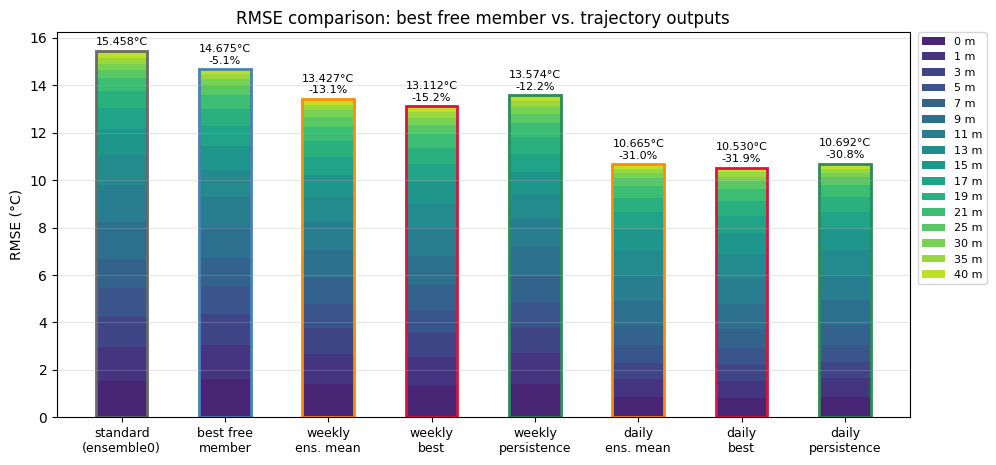
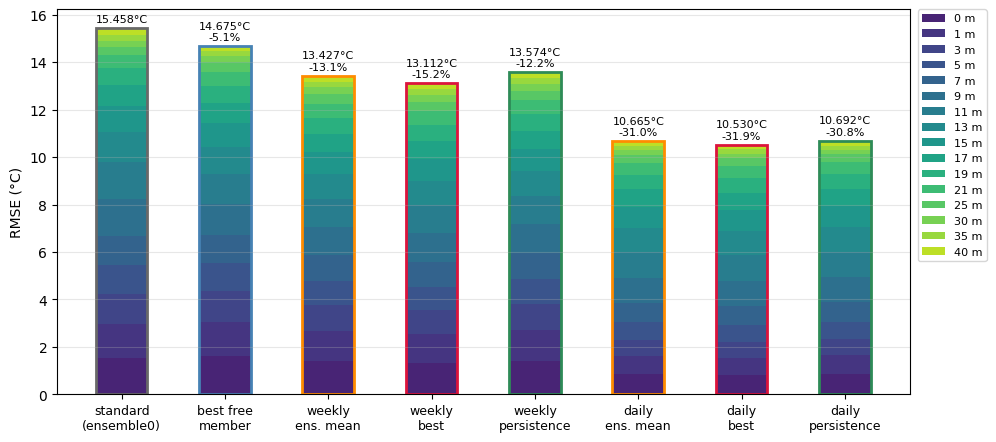
adding to readme

diff --git a/src/analyze_results.py b/src/analyze_results.py
@@ -244,7 +244,7 @@ for xi, (lbl, _, total, edgecolor) in enumerate(comp_entries):
 ax3.set_xticks(comp_x)
 ax3.set_xticklabels([e[0] for e in comp_entries], fontsize=9)
 ax3.set_ylabel("RMSE (°C)")
-ax3.set_title("RMSE comparison: best free member vs. trajectory outputs")
+#ax3.set_title("RMSE comparison: best free member vs. trajectory outputs")
 ax3.legend(fontsize=8, loc="upper left", bbox_to_anchor=(1.01, 1), borderaxespad=0)
 ax3.grid(True, axis="y", alpha=0.3)
 #plt.tight_layout(rect=[0, 0, 0.82, 1])